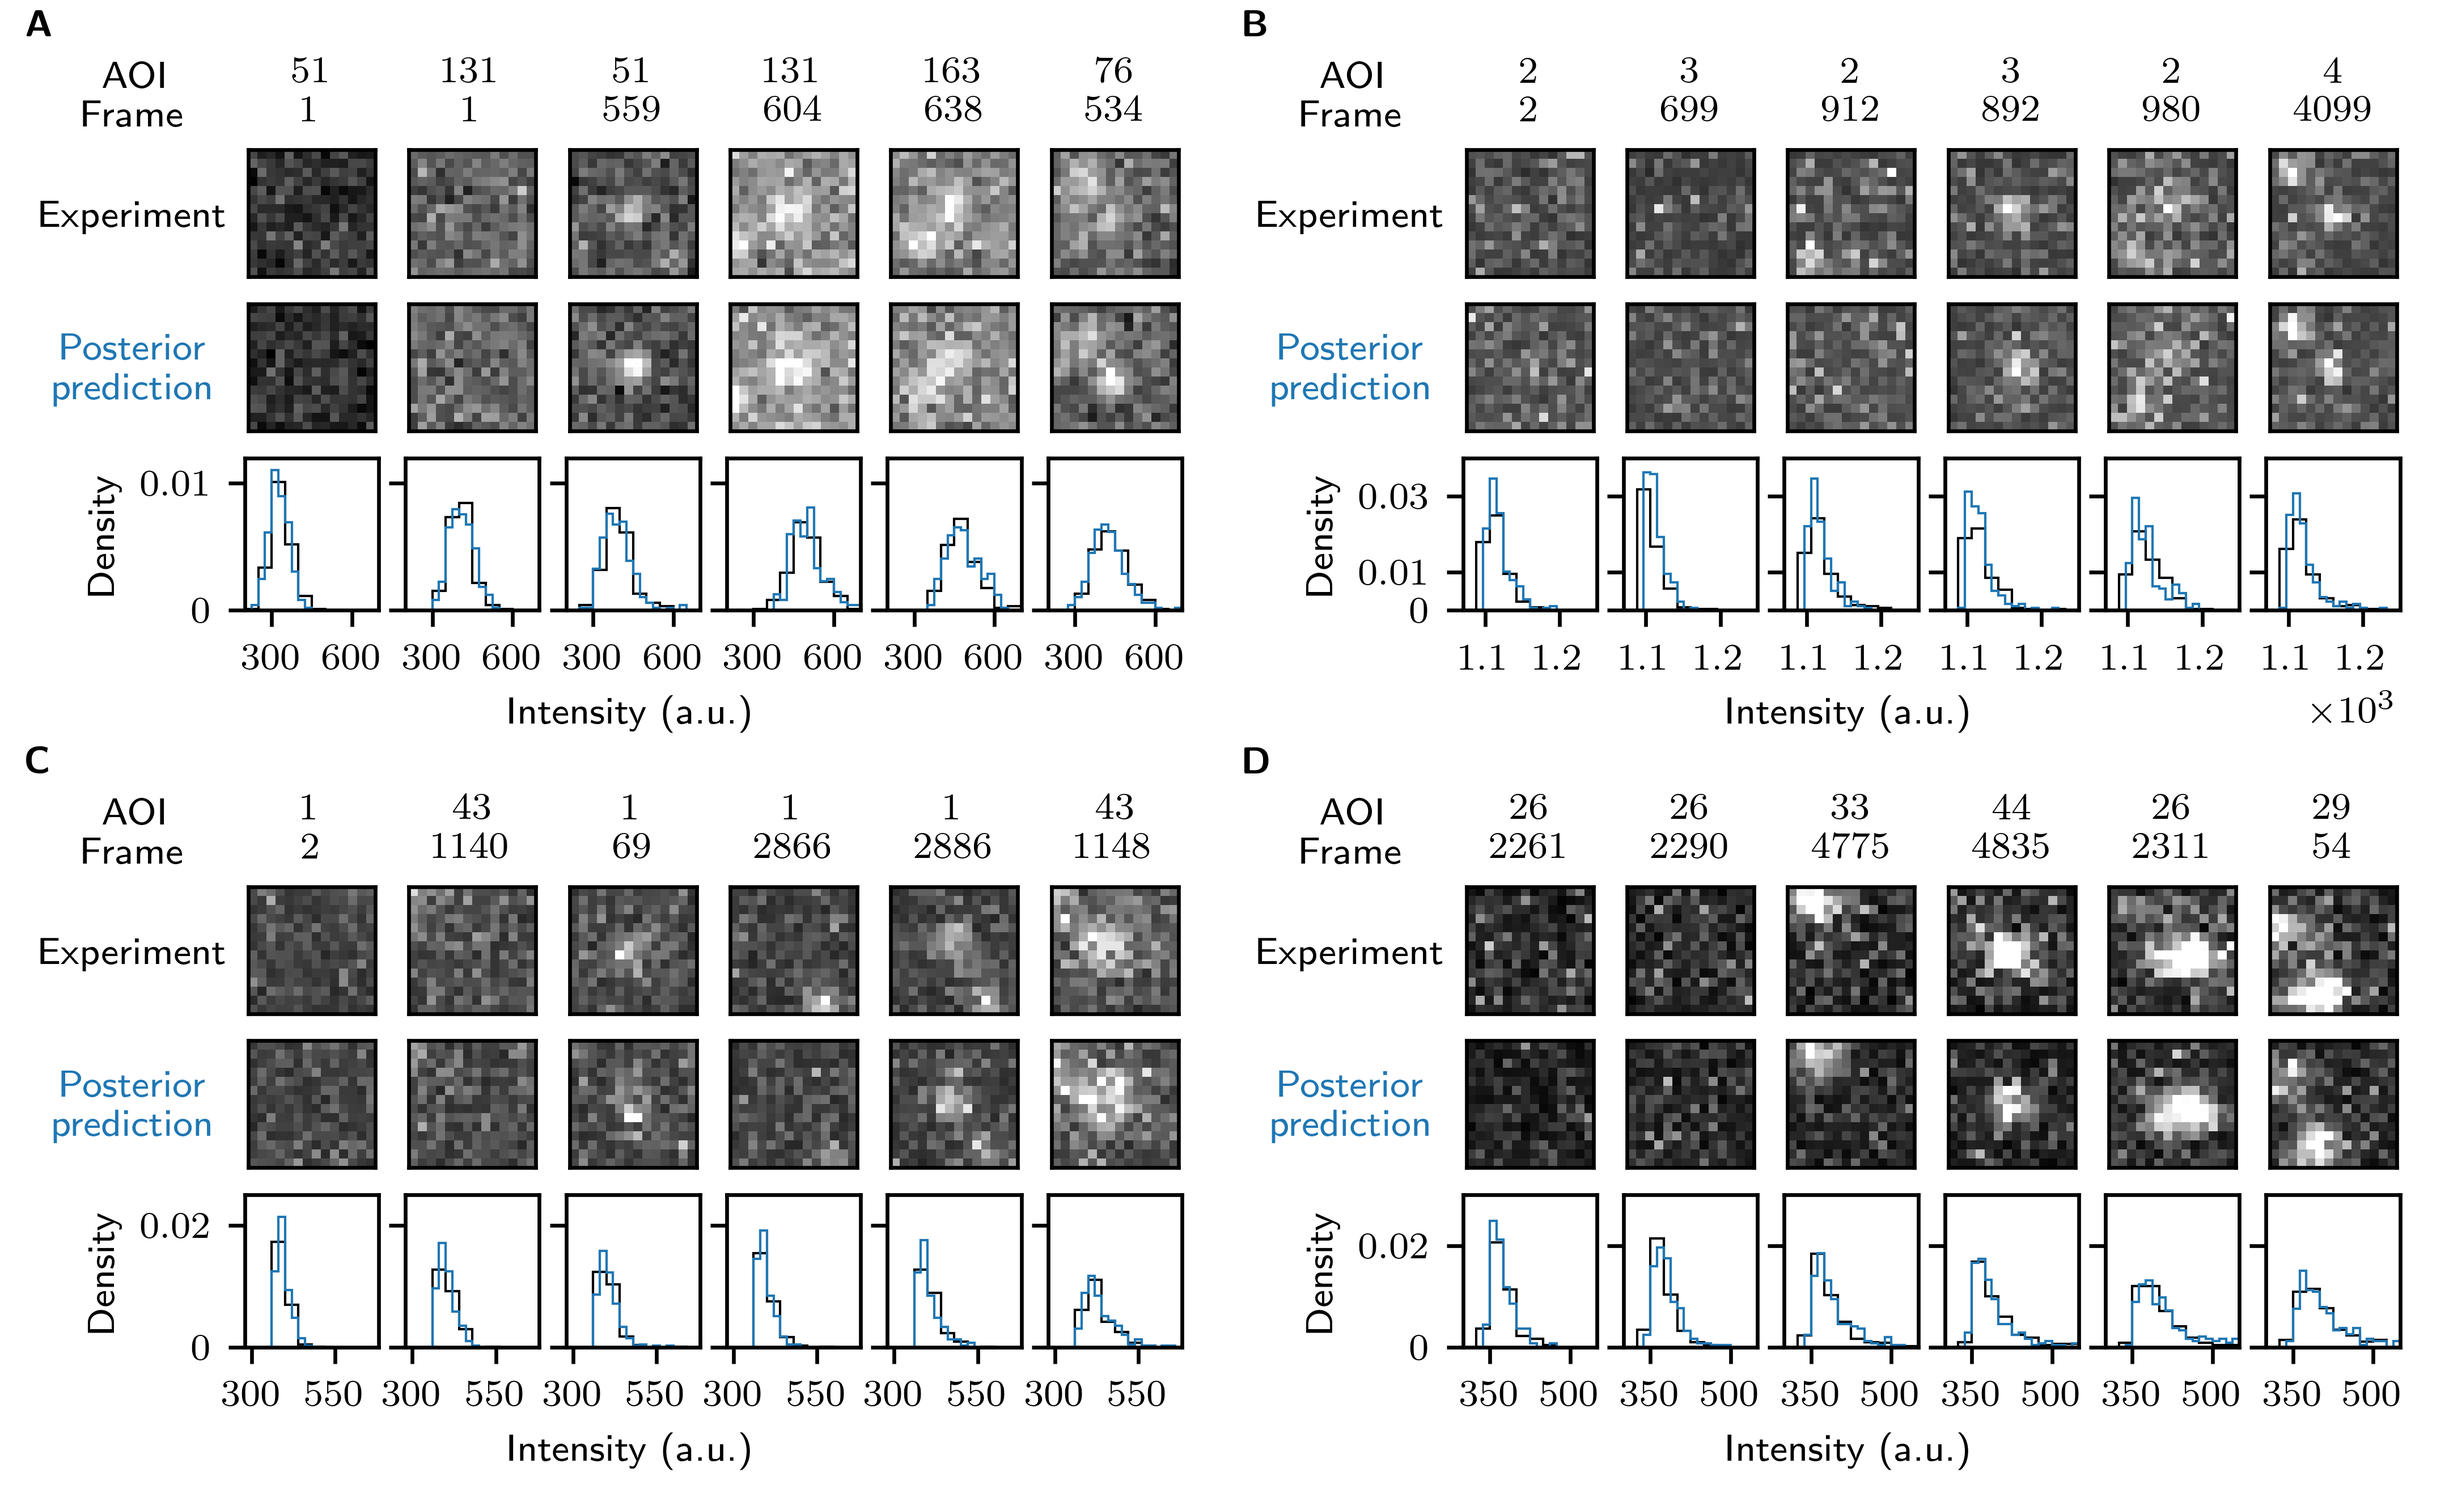
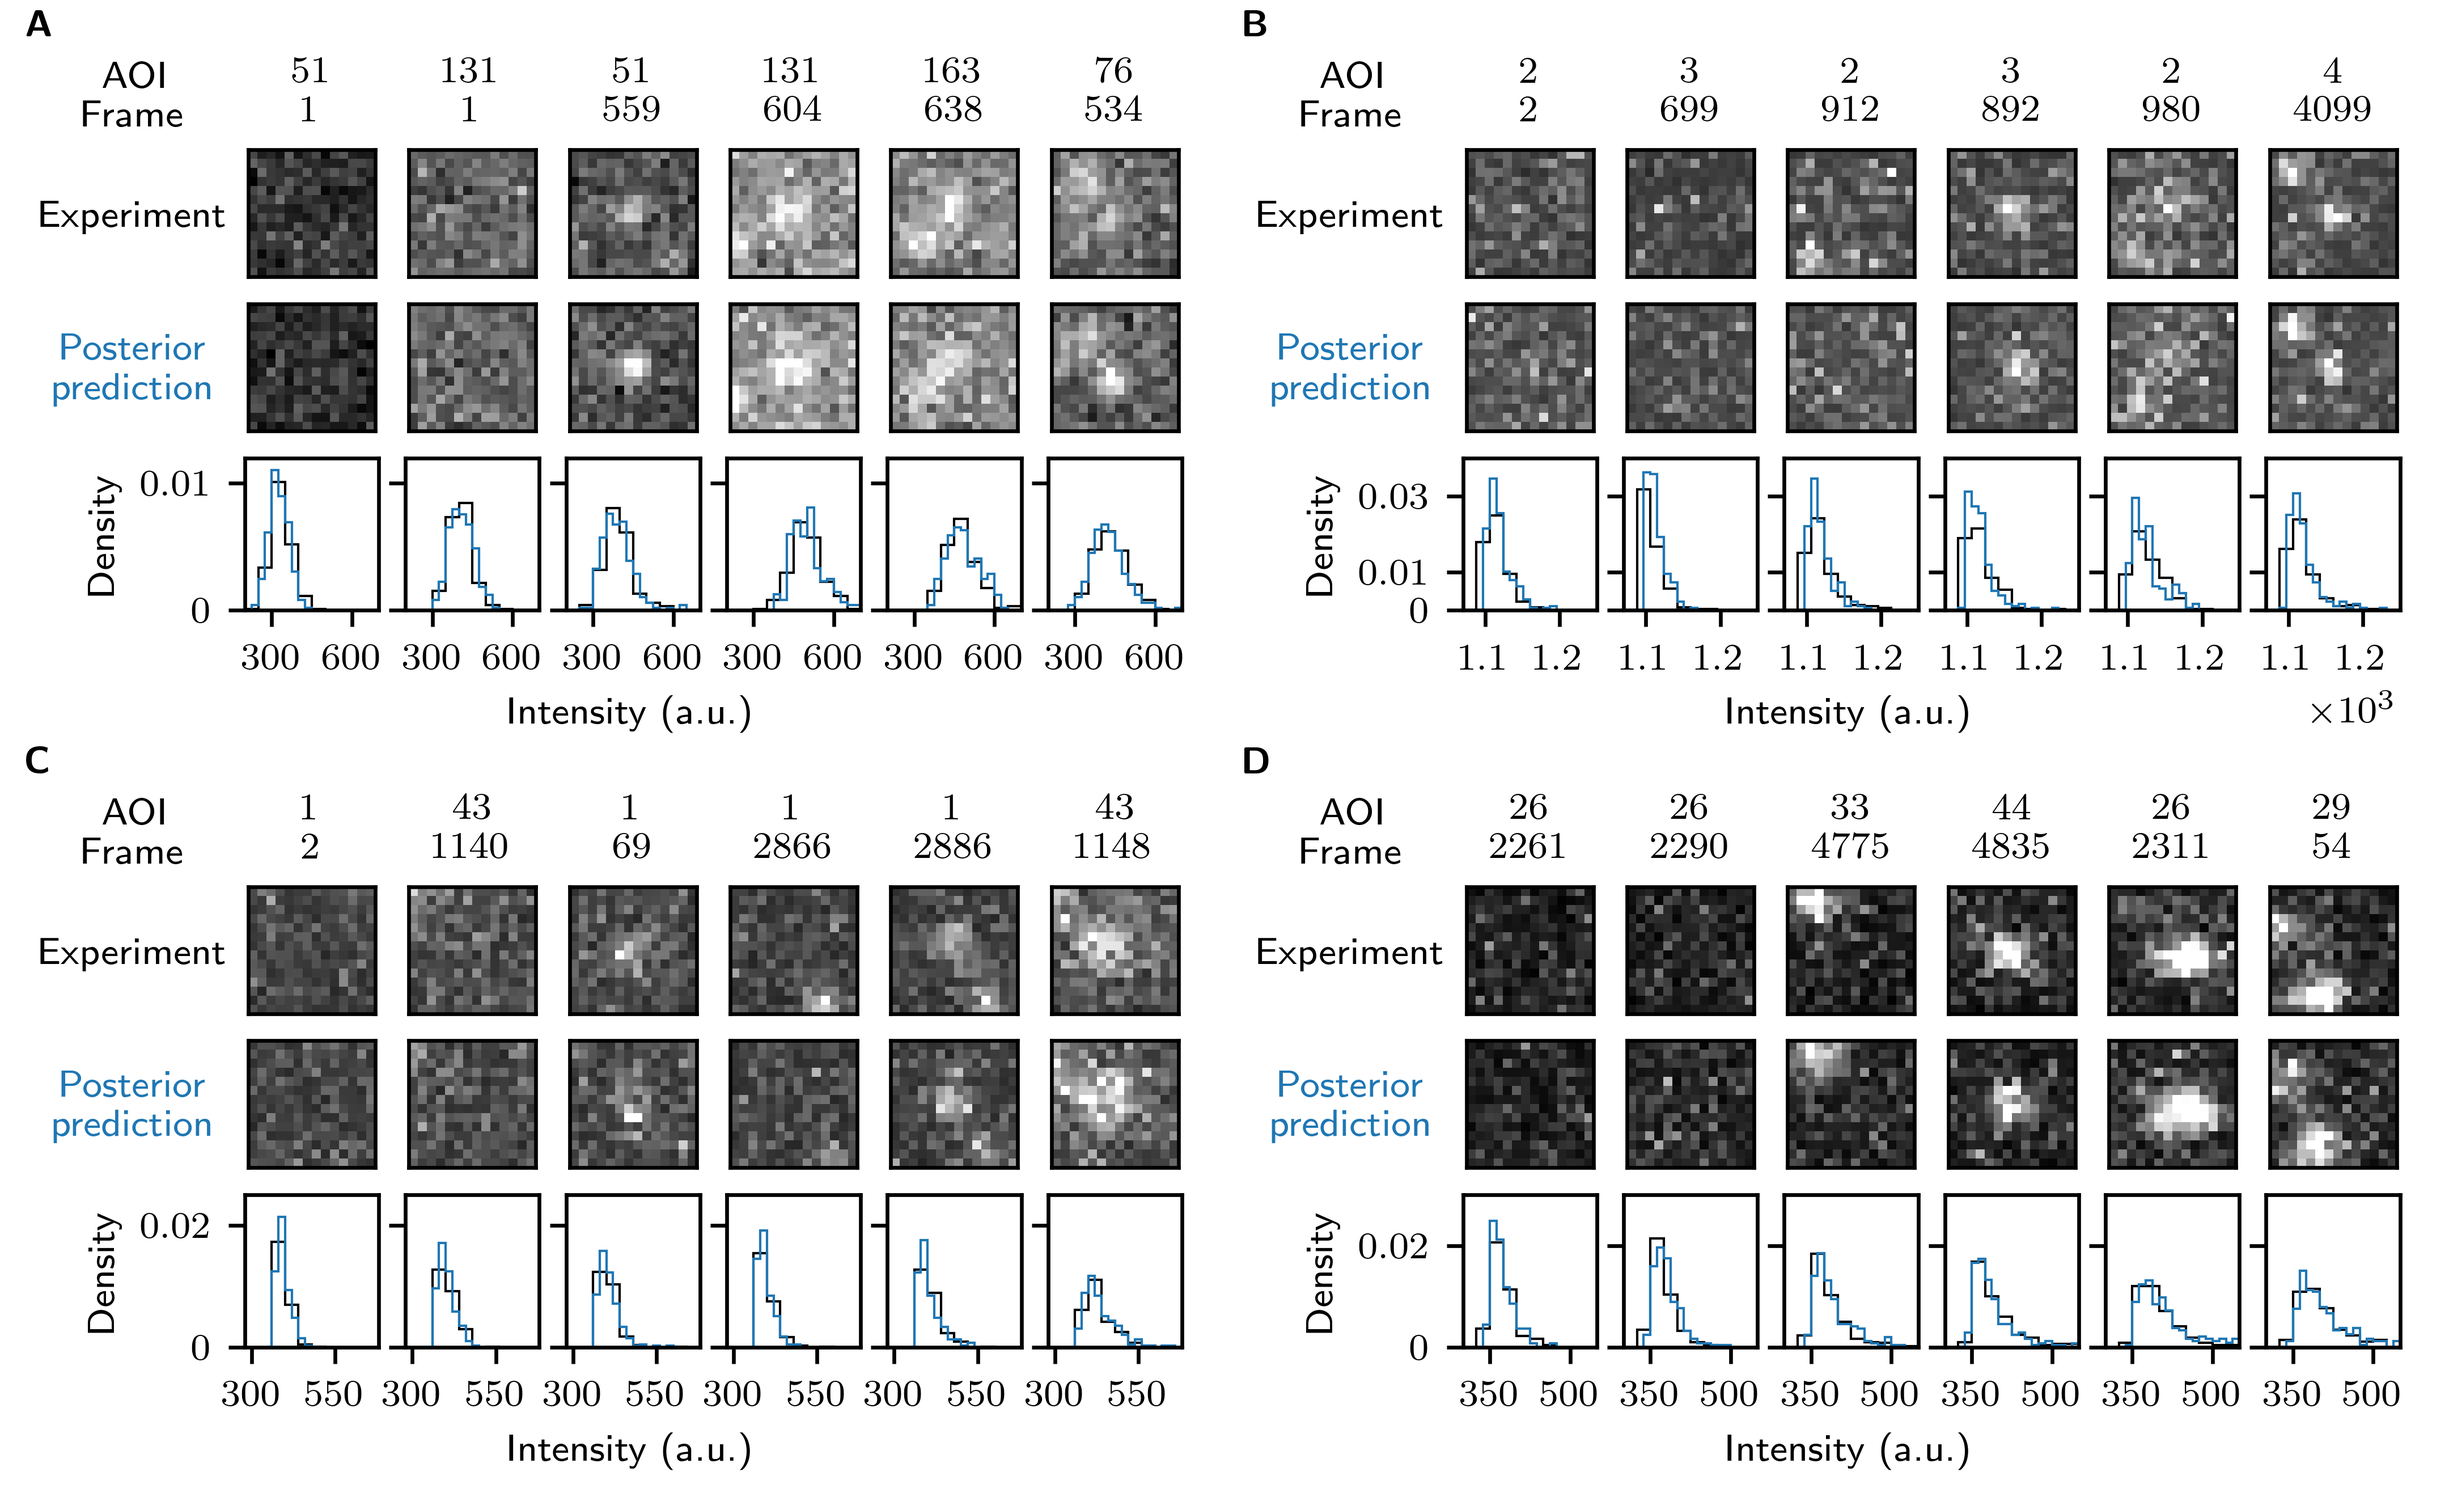
fix constrast

Changed region(s): [[0.7188, 0.5902, 0.9688, 0.6833], [0.625, 0.6212, 0.6562, 0.6523]]

diff --git a/scripts/figures/tapqir_analysis_ppc.py b/scripts/figures/tapqir_analysis_ppc.py
@@ -362,7 +362,7 @@ for i, n, f in zip(torch.arange(6), aois, frames):
     ax.imshow(
         model.data.ontarget.images[n, f].numpy(),
         vmin=340,
-        vmax=500,
+        vmax=550,
         cmap="gray",
     )
     ax.axes.xaxis.set_visible(False)
